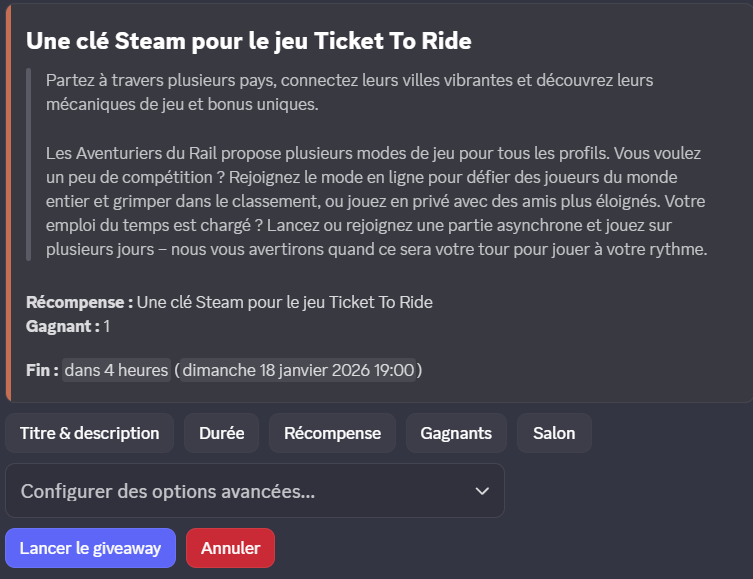
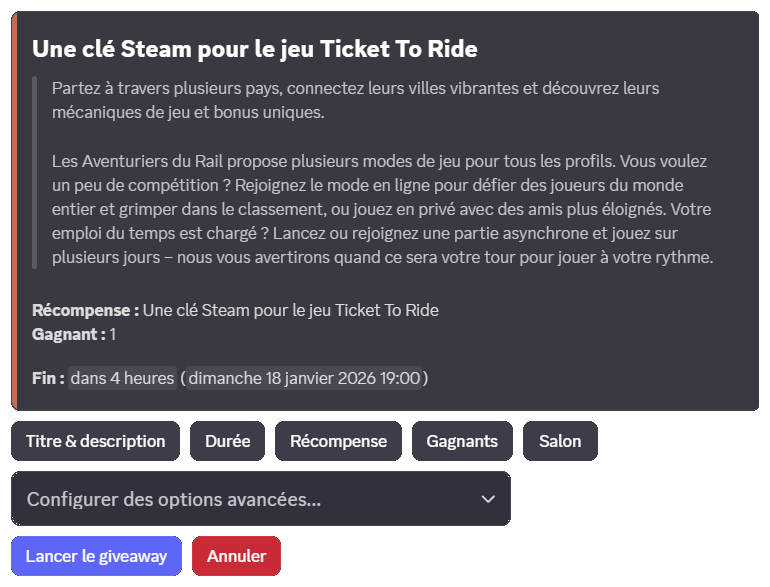
🔄 Replace image: giveaway_config.png

diff --git a/docs/2.modules/27.giveaways.md b/docs/2.modules/27.giveaways.md
@@ -102,7 +102,7 @@ Une fois la commande \</giveaway créer> exécutée, la récompense du giveaway 
 
 Lorsque la récompense a été définie, une prévisualisation du giveaway vous est affichée, et vous permet de le configurer et le modifier avant sa publication.
 
-<image prévisualisation>
+![Interface de prévisualisation et de configuration d'un giveaway](../assets/giveaways/giveaway_config.png)
 
 ### Configurer les options
 
